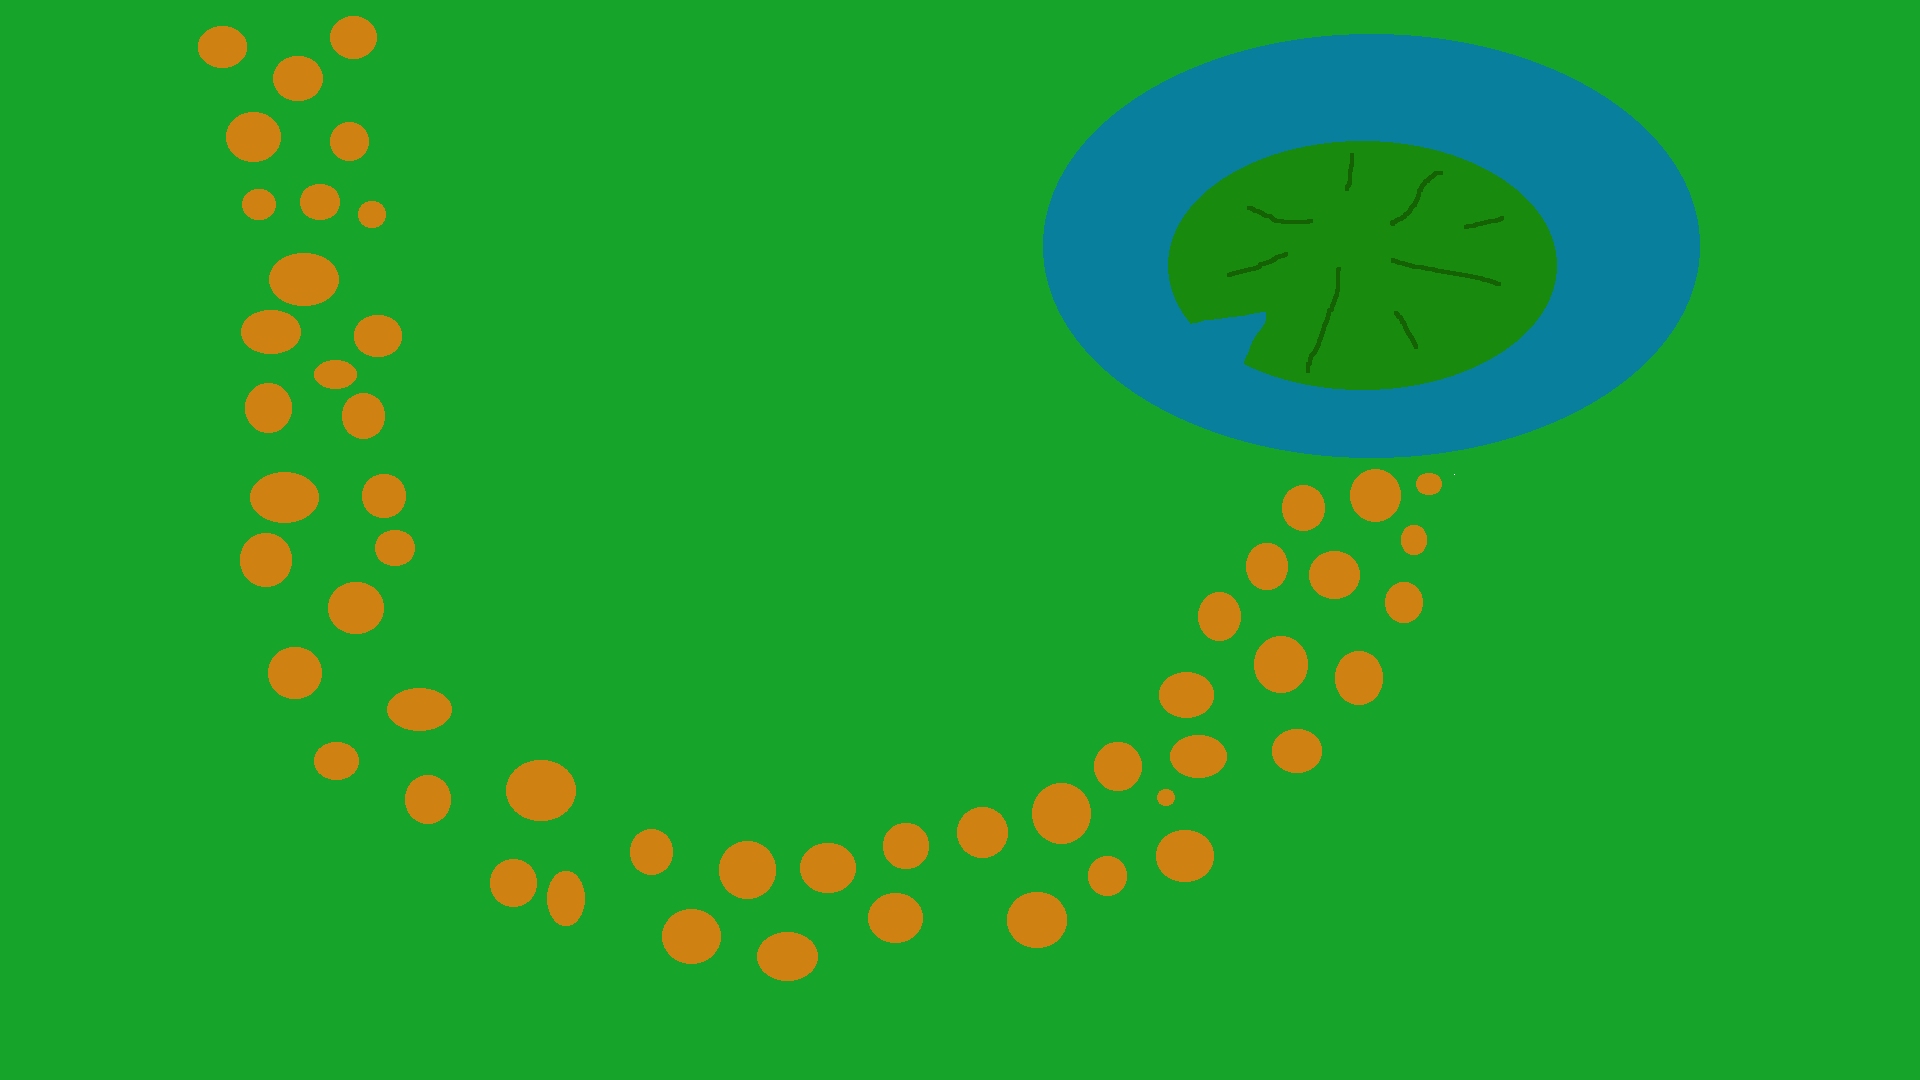
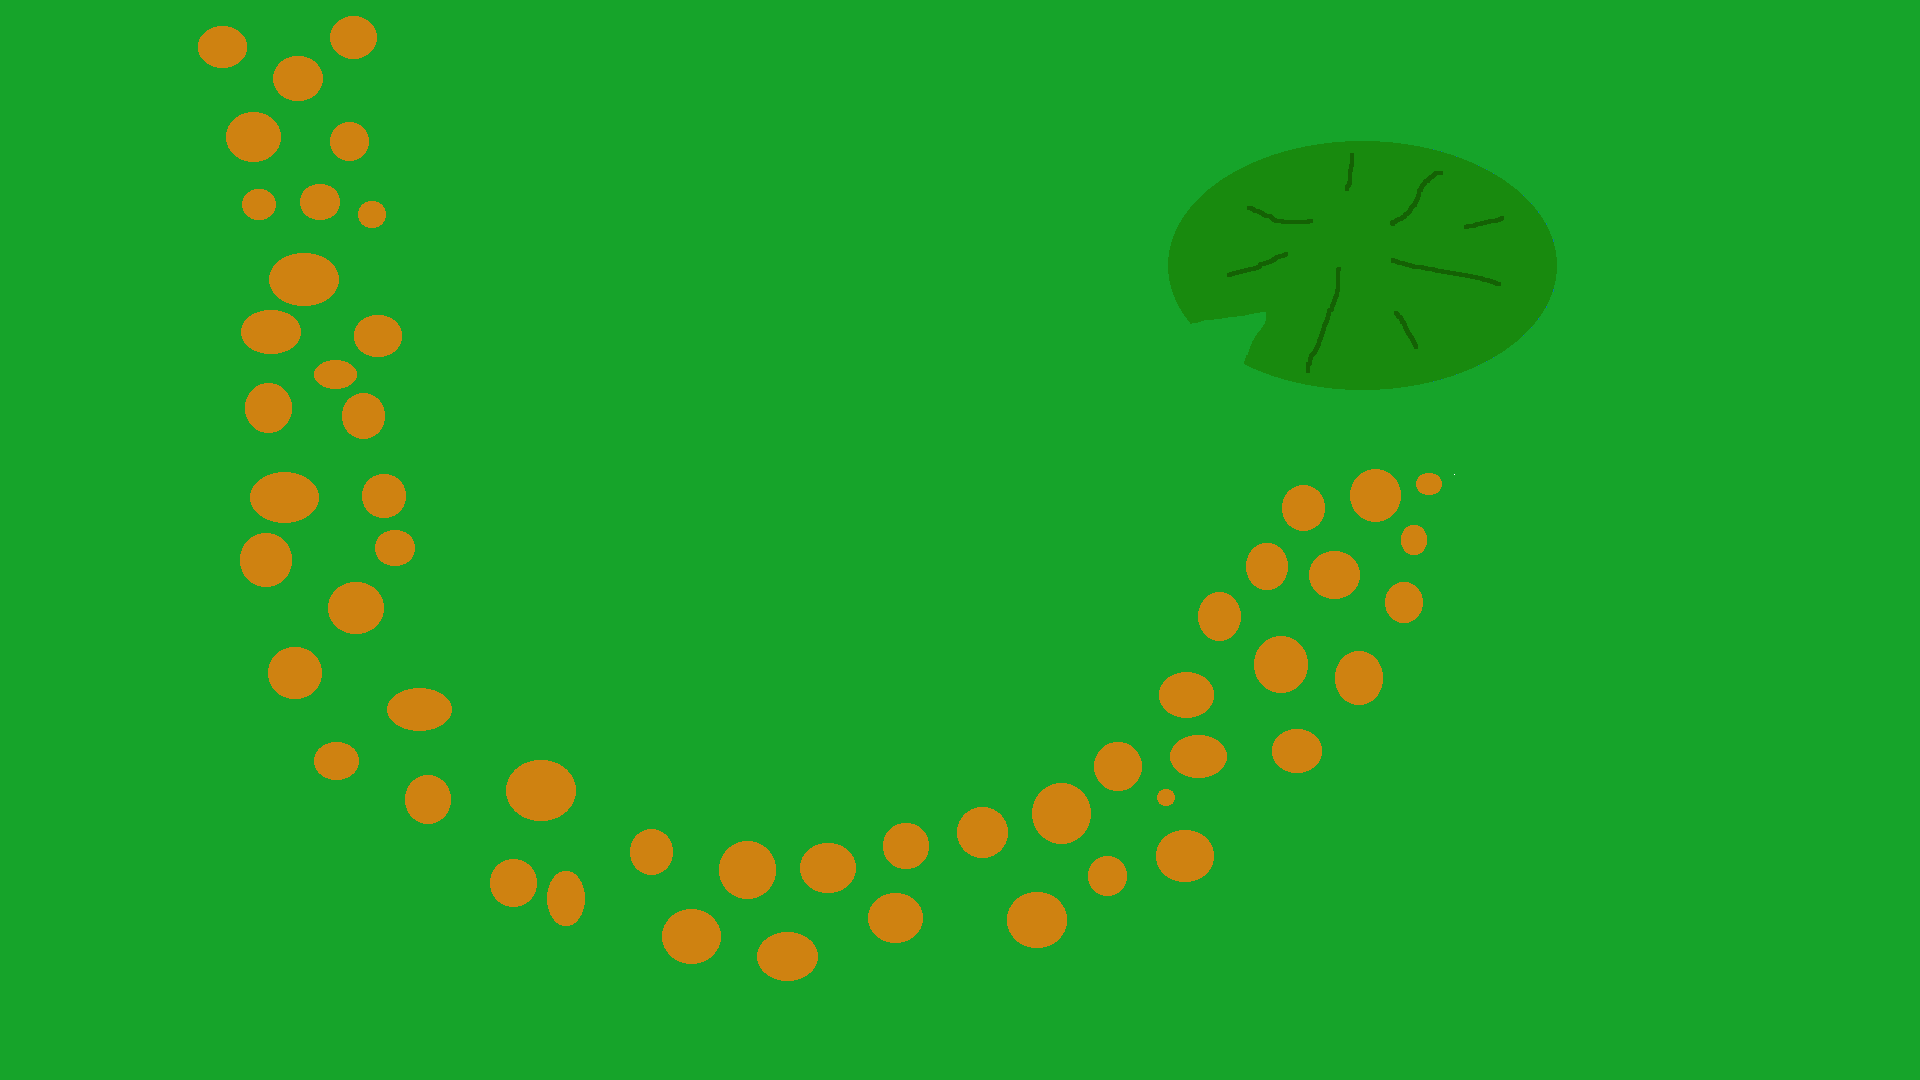
Redesigned background, added new sprites, added wall collision, simplified code,added new classes

Changed region(s): [[0.5312, 0.0306, 0.9062, 0.4278]]

diff --git a/player.py b/player.py
@@ -1,0 +1,44 @@
+import pygame
+
+class Mushroom(pygame.sprite.Sprite):
+    def __init__(self, width, height):
+        super().__init__()
+        self.frames = [pygame.transform.scale(pygame.image.load(f"mushwalk{i}.png").convert_alpha(), (100, 100)) for i in range(1, 5)]
+        self.current_frame = 0
+        self.image = self.frames[0]
+        self.rect = self.image.get_rect(center=(width // 2, height // 2))
+        self.speed = 5
+        self.facing_left = False
+        self.animation_counter = 0
+        self.screen_rect = pygame.Rect(0, 0, width, height)
+
+    def update(self, walls=[]):
+        keys = pygame.key.get_pressed()
+        moving = any([keys[pygame.K_w], keys[pygame.K_s], keys[pygame.K_a], keys[pygame.K_d]])
+        old_x, old_y = self.rect.x, self.rect.y
+
+        if keys[pygame.K_w]: self.rect.y -= self.speed
+        if keys[pygame.K_s]: self.rect.y += self.speed
+        if keys[pygame.K_a]: self.rect.x -= self.speed; self.facing_left = True
+        if keys[pygame.K_d]: self.rect.x += self.speed; self.facing_left = False
+
+        for wall in walls:
+            offset = (self.rect.x - wall.rect.x, self.rect.y - wall.rect.y)
+            if wall.mask.overlap(pygame.mask.from_surface(self.image), offset):
+                self.rect.x, self.rect.y = old_x, old_y
+                break
+
+        if moving:
+            self.animation_counter += 1
+            if self.animation_counter >= 5:
+                self.current_frame = (self.current_frame + 1) % 4
+                self.animation_counter = 0
+        else:
+            self.current_frame = 2
+
+        self.image = pygame.transform.flip(self.frames[self.current_frame], self.facing_left, False)
+        self.rect = self.image.get_rect(center=self.rect.center)
+        self.rect.clamp_ip(self.screen_rect)
+
+    def draw(self, surface):
+        surface.blit(self.image, self.rect)

diff --git a/sprites.py b/sprites.py
@@ -1,0 +1,41 @@
+import pygame
+import random
+
+class Frog(pygame.sprite.Sprite):
+    def __init__(self, x, y):
+        super().__init__()
+        self.image = pygame.transform.scale(pygame.image.load("frogstill.png").convert_alpha(), (250, 250))
+        self.rect = self.image.get_rect(center=(x, y))
+
+    def draw(self, surface):
+        surface.blit(self.image, self.rect)
+
+class Pond(pygame.sprite.Sprite):
+    def __init__(self, x, y):
+        super().__init__()
+        self.image = pygame.transform.scale(pygame.image.load("pond.png").convert_alpha(), (700, 400))
+        self.rect = self.image.get_rect(topleft=(x, y))
+        self.mask = pygame.mask.from_surface(self.image)
+
+    def draw(self, surface):
+        surface.blit(self.image, self.rect)
+
+
+class Tree(pygame.sprite.Sprite):
+    def __init__(self, x, y):
+        super().__init__()
+        size = random.randint(100, 400)
+        self.image = pygame.transform.scale(pygame.image.load("tree.png").convert_alpha(), (size, size))
+        self.rect = self.image.get_rect(topleft=(x, y))
+
+    def draw(self, surface):
+        surface.blit(self.image, self.rect)
+
+class Grass(pygame.sprite.Sprite):
+    def __init__(self, x, y):
+        super().__init__()
+        self.image = pygame.transform.scale(pygame.image.load("windgrass1.png").convert_alpha(), (300, 300))
+        self.rect = self.image.get_rect(topleft=(x, y))
+
+    def draw(self, surface):
+        surface.blit(self.image, self.rect)

diff --git a/main.py b/main.py
@@ -1,36 +1,43 @@
 import pygame
 import sys
-from spriteclasses import Mushroom, Frog
+from sprites import Frog, Pond, Grass, Tree
+from player import Mushroom
 
 pygame.init()
 
-# Screen setup
 WIDTH, HEIGHT = 1920, 1080
 screen = pygame.display.set_mode((WIDTH, HEIGHT))
 pygame.display.set_caption("Mushroom Game")
 clock = pygame.time.Clock()
 
-# Game loop
-frog=Frog(1360,200)
+background = pygame.transform.scale(pygame.image.load("background.png").convert(), (WIDTH, HEIGHT))
+pond = Pond(1025,50 )
+frog = Frog(1360, 180)
+tree1 = Tree(1, 100)
+tree2 = Tree(800, 400)
+tree3 = Tree(1200, 700)
+tree4 = Tree(1, 600)
 mushroom = Mushroom(WIDTH, HEIGHT)
-mushroom.rect.center = (300,100)
+mushroom.rect.center = (300, 100)
+
 running = True
-
 while running:
-    clock.tick(60)
-
     for event in pygame.event.get():
         if event.type == pygame.QUIT:
             running = False
 
-    mushroom.update()
+    mushroom.update(walls=[pond])
 
-    background = pygame.transform.scale(pygame.image.load("background.png"), (1920, 1080))
     screen.blit(background, (0, 0))
-    mushroom.draw(screen)
+    pond.draw(screen)
+    tree1.draw(screen)
+    tree2.draw(screen)
+    tree3.draw(screen)
+    tree4.draw(screen)
     frog.draw(screen)
+    mushroom.draw(screen)
 
     pygame.display.flip()
+    clock.tick(60)
 
 pygame.quit()
-sys.exit()
